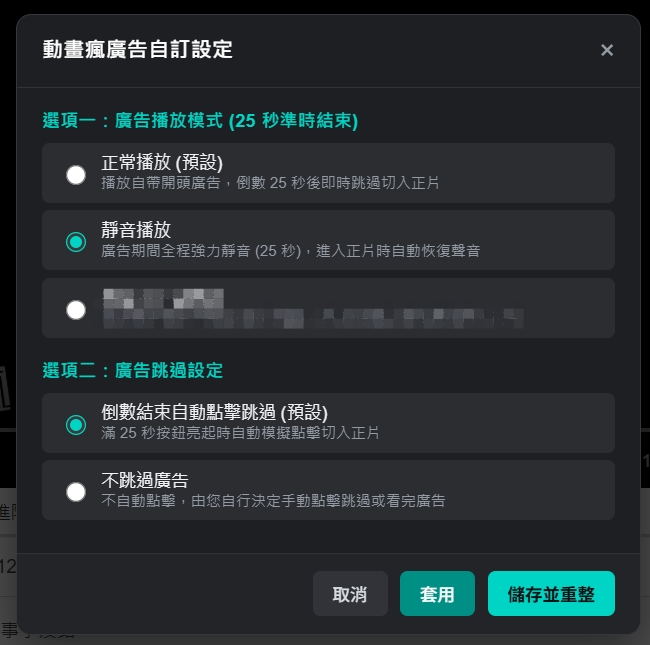
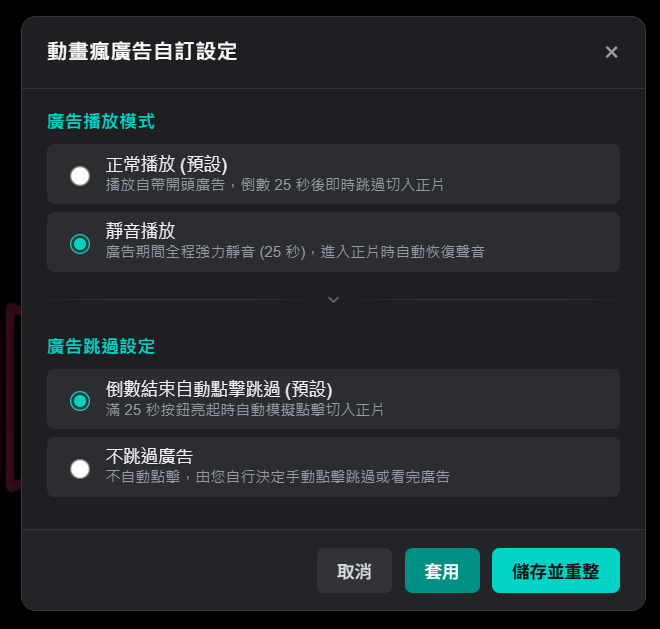
feat(v1.9): add interactive drawer & unlock animation for hidden feature
- Script (ani-gamer-ad-customizer.user.js): bump version to 1.9; add collapsible drawer with hover unlock (1.5s), rainbow neon border animation, and toast feedback
- Assets (images/settings_modal.png): update screenshot reflecting new drawer UI
- Documentation (README.md): bump version badge to 1.9 and update hidden feature description

diff --git a/ani-gamer-ad-customizer.user.js b/ani-gamer-ad-customizer.user.js
@@ -1,7 +1,7 @@
 // ==UserScript==
 // @name         巴哈動畫瘋廣告自訂助手
 // @namespace    https://github.com/pthuang01/ani-gamer-ad-customizer
-// @version      1.8
+// @version      1.9
 // @description  限制為巴哈自帶廣告 (跳過Google Ads)，25秒結束廣告、手動/自動結束廣告、正常/靜音播放廣告，及一個隱藏的實驗性功能
 // @author       DoReMi
 // @match        https://ani.gamer.com.tw/animeVideo.php?sn=*
@@ -199,25 +199,91 @@
             font-family: -apple-system, BlinkMacSystemFont, "Segoe UI", Roboto, "Helvetica Neue", Arial, sans-serif;
         `;
 
+        // 🌟 隱藏抽屜解鎖懸停秒數（修改此處數字，箭頭、分隔線、點擊有效觸發三者將完全自動連動）
+        const UNLOCK_HOVER_SECONDS = 1.5;
+
         const currentPlayMode = CONFIG.playMode;
         const currentSkipMode = CONFIG.skipMode;
+        const isExpanded = currentPlayMode === 'no-download';
 
         modalOverlay.innerHTML = `
-            <div style="
-                background: #1e1f22;
-                color: #f2f3f5;
-                width: 500px;
-                max-width: 92vw;
-                border-radius: 12px;
-                box-shadow: 0 12px 36px rgba(0,0,0,0.5);
-                border: 1px solid #35373c;
-                overflow: hidden;
-                animation: aniModalFadeIn 0.2s ease-out;
-            ">
+            <div class="ani-modal-wrapper" style="position: relative; border-radius: 14px; max-width: 92vw;">
+                <!-- 七彩霓虹流光層 (外光暈) -->
+                <div id="ani-rainbow-glow" class="ani-rainbow-layer ani-rainbow-blur">
+                    <div class="ani-rainbow-spinner"></div>
+                </div>
+
+                <!-- 設定視窗主體 -->
+                <div style="
+                    position: relative;
+                    z-index: 2;
+                    background: #1e1f22;
+                    color: #f2f3f5;
+                    width: 500px;
+                    max-width: 100%;
+                    border-radius: 12px;
+                    box-shadow: 0 12px 36px rgba(0,0,0,0.5);
+                    border: 1px solid #35373c;
+                    overflow: hidden;
+                    animation: aniModalFadeIn 0.2s ease-out;
+                ">
                 <style>
                     @keyframes aniModalFadeIn {
                         from { opacity: 0; transform: scale(0.95); }
                         to { opacity: 1; transform: scale(1); }
+                    }
+                    @keyframes aniToastRainbowIn {
+                        0% { opacity: 0; transform: translate(-50%, 15px) scale(0.95); }
+                        100% { opacity: 1; transform: translate(-50%, 0) scale(1); }
+                    }
+
+                    /* 圍繞視窗的七彩霓虹流光動畫 (普通流動速度) */
+                    @keyframes aniRainbowSpin {
+                        0% { transform: rotate(0deg); }
+                        100% { transform: rotate(360deg); }
+                    }
+                    /* 緩慢浮現 1 秒 ➔ 圍繞流動 2 秒 ➔ 柔和淡出 1 秒消失 (總長 4.0s) */
+                    @keyframes aniRainbowFade {
+                        0% { opacity: 0; }
+                        25% { opacity: 1; }
+                        75% { opacity: 1; }
+                        100% { opacity: 0; }
+                    }
+                    .ani-rainbow-layer {
+                        position: absolute;
+                        pointer-events: none;
+                        opacity: 0;
+                        overflow: hidden;
+                    }
+                    .ani-rainbow-blur {
+                        inset: -6px;
+                        border-radius: 18px;
+                        filter: blur(14px);
+                        z-index: 0;
+                    }
+                    .ani-rainbow-spinner {
+                        position: absolute;
+                        width: 300%;
+                        height: 300%;
+                        top: -100%;
+                        left: -100%;
+                        background: conic-gradient(
+                            from 0deg,
+                            #ff0055 0deg,
+                            #ff7700 45deg,
+                            #ffee00 90deg,
+                            #00ff88 135deg,
+                            #00ffff 180deg,
+                            #0077ff 225deg,
+                            #aa00ff 270deg,
+                            #ff00aa 315deg,
+                            #ff0055 360deg
+                        );
+                        animation: aniRainbowSpin 3.5s linear infinite;
+                        transform-origin: center center;
+                    }
+                    .ani-rainbow-active {
+                        animation: aniRainbowFade 4.0s ease-in-out forwards !important;
                     }
                     .ani-modal-section { margin-bottom: 20px; }
                     .ani-modal-title {
@@ -278,6 +344,108 @@
                     .ani-btn-apply:hover { background: #00a89c; }
                     .ani-btn-save-reload { background: #00d4c5; color: #111214; font-weight: 600; }
                     .ani-btn-save-reload:hover { background: #1affec; }
+
+                    /* 隱藏選項平滑抽屜容器 */
+                    .ani-hidden-container {
+                        max-height: 0;
+                        opacity: 0;
+                        overflow: hidden;
+                        transition: max-height 0.4s cubic-bezier(0.16, 1, 0.3, 1),
+                                    opacity 0.35s ease,
+                                    margin 0.4s cubic-bezier(0.16, 1, 0.3, 1);
+                        margin-bottom: 0;
+                    }
+                    .ani-hidden-container.expanded {
+                        max-height: 110px;
+                        opacity: 1;
+                        margin-bottom: 6px;
+                        overflow: visible;
+                    }
+
+                    /* 讓「完全不下載廣告」選項從左側往右 fade-in 2s 到定點 */
+                    @keyframes aniOptionSlideInLeft {
+                        0% {
+                            opacity: 0;
+                            transform: translateX(-32px);
+                        }
+                        100% {
+                            opacity: 1;
+                            transform: translateX(0);
+                        }
+                    }
+                    .ani-hidden-container.unlock-slide .ani-modal-option {
+                        animation: aniOptionSlideInLeft 2.0s cubic-bezier(0.16, 1, 0.3, 1) forwards;
+                    }
+
+                    /* 現代感極簡開合分隔線 */
+                    .ani-collapse-divider {
+                        display: flex;
+                        align-items: center;
+                        justify-content: center;
+                        padding: 6px 0 2px 0;
+                        cursor: default;
+                        user-select: none;
+                    }
+                    .ani-collapse-divider .ani-divider-line {
+                        flex: 1;
+                        height: 1px;
+                        position: relative;
+                        background: linear-gradient(90deg, rgba(53, 55, 60, 0.2), #35373c 30%, #35373c 70%, rgba(53, 55, 60, 0.2));
+                    }
+                    .ani-collapse-divider .ani-divider-line::after {
+                        content: '';
+                        position: absolute;
+                        top: 0;
+                        left: 0;
+                        width: 100%;
+                        height: 100%;
+                        background: linear-gradient(90deg, rgba(0, 212, 197, 0.1), #00d4c5 30%, #00d4c5 70%, rgba(0, 212, 197, 0.1));
+                        box-shadow: 0 0 8px rgba(0, 212, 197, 0.5);
+                        opacity: 0;
+                        transition: opacity 0.4s ease 0s;
+                        pointer-events: none;
+                    }
+                    .ani-collapse-divider .ani-divider-icon {
+                        display: flex;
+                        align-items: center;
+                        justify-content: center;
+                        width: 24px;
+                        height: 20px;
+                        margin: 0 8px;
+                        color: #5a5e67;
+                        cursor: default;
+                        transition: color 0.4s ease 0s, filter 0.4s ease 0s;
+                    }
+                    .ani-collapse-divider .ani-divider-icon svg {
+                        transition: transform 0.3s cubic-bezier(0.4, 0, 0.2, 1);
+                    }
+
+                    /* 閉合狀態：滑鼠懸浮指定秒數後觸發青色霓虹微光特效，分隔線與箭頭嚴格同步延遲 */
+                    .ani-collapse-divider:not(.expanded):hover .ani-divider-line::after {
+                        opacity: 1;
+                        transition: opacity 0.4s ease ${UNLOCK_HOVER_SECONDS}s;
+                    }
+                    .ani-collapse-divider:not(.expanded):hover .ani-divider-icon {
+                        color: #00d4c5;
+                        filter: drop-shadow(0 0 6px rgba(0, 212, 197, 0.7));
+                        transition: color 0.4s ease ${UNLOCK_HOVER_SECONDS}s, filter 0.4s ease ${UNLOCK_HOVER_SECONDS}s;
+                    }
+
+                    /* 展開後狀態：箭頭翻轉 180 度 */
+                    .ani-collapse-divider.expanded .ani-divider-icon svg {
+                        transform: rotate(180deg);
+                    }
+
+                    /* 展開後狀態：Hover 不發生任何特效 */
+                    .ani-collapse-divider.expanded:hover .ani-divider-line::after {
+                        opacity: 0;
+                        transition: none;
+                    }
+                    .ani-collapse-divider.expanded:hover .ani-divider-icon {
+                        color: #5a5e67;
+                        filter: none;
+                        transition: none;
+                    }
                 </style>
 
                 <!-- Header -->
@@ -305,12 +473,25 @@
                                 <span class="ani-modal-desc">廣告期間全程強力靜音 (25 秒)，進入正片時自動恢復聲音</span>
                             </label>
                         </div>
-                        <div class="ani-modal-option" data-radio-id="playMode_no_download">
-                            <input type="radio" id="playMode_no_download" name="ani_play_mode" value="no-download" ${currentPlayMode === 'no-download' ? 'checked' : ''}>
-                            <label for="playMode_no_download">
-                                完全不下載廣告
-                                <span class="ani-modal-desc">阻擋廣告切片下載 (0 MB 流量)，25 秒虛擬計時後直接切入正片</span>
-                            </label>
+                        <!-- 隱藏抽屜：完全不下載廣告 -->
+                        <div id="ani-hidden-container" class="ani-hidden-container ${isExpanded ? 'expanded' : ''}">
+                            <div class="ani-modal-option" data-radio-id="playMode_no_download">
+                                <input type="radio" id="playMode_no_download" name="ani_play_mode" value="no-download" ${currentPlayMode === 'no-download' ? 'checked' : ''}>
+                                <label for="playMode_no_download">
+                                    完全不下載廣告
+                                    <span class="ani-modal-desc">阻擋廣告切片下載 (0 MB 流量)，25 秒虛擬計時後直接切入正片</span>
+                                </label>
+                            </div>
+                        </div>
+                        <!-- 現代感開合分隔線 -->
+                        <div id="ani-collapse-divider" class="ani-collapse-divider ${isExpanded ? 'expanded' : ''}">
+                            <div class="ani-divider-line"></div>
+                            <div class="ani-divider-icon">
+                                <svg width="12" height="12" viewBox="0 0 12 12" fill="none" xmlns="http://www.w3.org/2000/svg">
+                                    <path d="M2.5 4.5L6 8L9.5 4.5" stroke="currentColor" stroke-width="1.6" stroke-linecap="round" stroke-linejoin="round"/>
+                                </svg>
+                            </div>
+                            <div class="ani-divider-line"></div>
                         </div>
                     </div>
 
@@ -341,9 +522,68 @@
                     <button class="ani-btn ani-btn-save-reload" id="ani-btn-save-reload">儲存並重整</button>
                 </div>
             </div>
+        </div>
         `;
 
         targetDocument.body.appendChild(modalOverlay);
+
+        // 開合分隔線切換邏輯 (閉合狀態下：在發亮前按它不會展開)
+        const collapseDivider = modalOverlay.querySelector('#ani-collapse-divider');
+        const hiddenContainer = modalOverlay.querySelector('#ani-hidden-container');
+
+        let hoverTimer = null;
+        let isGlowActive = false;
+
+        collapseDivider.addEventListener('mouseenter', () => {
+            if (!collapseDivider.classList.contains('expanded')) {
+                clearTimeout(hoverTimer);
+                hoverTimer = setTimeout(() => {
+                    isGlowActive = true;
+                }, UNLOCK_HOVER_SECONDS * 1000);
+            }
+        });
+
+        collapseDivider.addEventListener('mouseleave', () => {
+            clearTimeout(hoverTimer);
+            hoverTimer = null;
+            isGlowActive = false;
+        });
+
+        collapseDivider.addEventListener('click', () => {
+            const isCurrentlyExpanded = hiddenContainer.classList.contains('expanded');
+            if (!isCurrentlyExpanded) {
+                // 閉合狀態：在發亮前點擊不會展開
+                if (!isGlowActive) return;
+
+                // 🌟 1. 觸發設定視窗邊框的七彩霓虹流光特效（緩慢浮現 1 秒 ➔ 流動 1 秒 ➔ 淡出 1 秒）
+                const rainbowGlow = modalOverlay.querySelector('#ani-rainbow-glow');
+                if (rainbowGlow) {
+                    rainbowGlow.classList.remove('ani-rainbow-active');
+                    void rainbowGlow.offsetWidth; // 強制重繪
+                    rainbowGlow.classList.add('ani-rainbow-active');
+                }
+
+                // 🌟 2. 發生霓虹特效的同時彈出專屬 Toast (青色主視覺，同步 4 秒)
+                showToast('已解鎖實驗性隱藏功能！', 4000);
+
+                // 🌟 3. 「完全不下載廣告」選項從左側往右 fade-in 2s 到定點展開
+                hiddenContainer.classList.remove('unlock-slide');
+                void hiddenContainer.offsetWidth; // 強制重繪觸發動畫
+                hiddenContainer.classList.add('unlock-slide');
+                hiddenContainer.classList.add('expanded');
+                collapseDivider.classList.add('expanded');
+
+                isGlowActive = false;
+                clearTimeout(hoverTimer);
+            } else {
+                // 展開狀態：可隨時點擊收合
+                hiddenContainer.classList.remove('expanded');
+                hiddenContainer.classList.remove('unlock-slide');
+                collapseDivider.classList.remove('expanded');
+                isGlowActive = false;
+                clearTimeout(hoverTimer);
+            }
+        });
 
         // 點擊選項整列皆可選取
         modalOverlay.querySelectorAll('.ani-modal-option').forEach(opt => {
@@ -384,7 +624,10 @@
         radioMuted.addEventListener('change', updateSkipOptionState);
         updateSkipOptionState();
 
-        const closeModal = () => modalOverlay.remove();
+        const closeModal = () => {
+            clearTimeout(hoverTimer);
+            modalOverlay.remove();
+        };
         targetDocument.getElementById('ani-btn-close').onclick = closeModal;
         modalOverlay.onclick = (e) => { if (e.target === modalOverlay) closeModal(); };
         targetDocument.getElementById('ani-btn-cancel').onclick = closeModal;
@@ -414,7 +657,7 @@
         };
     }
 
-    function showToast(msg) {
+    function showToast(msg, durationMs = 2500) {
         const toast = targetDocument.createElement('div');
         toast.style.cssText = `
             position: fixed;
@@ -423,17 +666,27 @@
             transform: translateX(-50%);
             background: #00d4c5;
             color: #111214;
-            padding: 10px 22px;
+            padding: 11px 24px;
             border-radius: 8px;
             font-size: 14px;
             font-weight: 600;
             z-index: 1000000;
-            box-shadow: 0 4px 16px rgba(0,0,0,0.4);
+            box-shadow: 0 4px 18px rgba(0, 212, 197, 0.45);
             pointer-events: none;
+            letter-spacing: 0.5px;
+            animation: aniToastRainbowIn 0.3s cubic-bezier(0.16, 1, 0.3, 1);
+            transition: opacity 0.8s ease, transform 0.8s ease;
         `;
         toast.textContent = msg;
         targetDocument.body.appendChild(toast);
-        setTimeout(() => toast.remove(), 2500);
+
+        // 在最後 0.8 秒隨同七彩流光柔和淡出
+        const fadeDelay = Math.max(0, durationMs - 800);
+        setTimeout(() => {
+            toast.style.opacity = '0';
+            toast.style.transform = 'translate(-50%, 8px)';
+            setTimeout(() => toast.remove(), 800);
+        }, fadeDelay);
     }
 
     GM_registerMenuCommand('⚙ 動畫瘋廣告設定視窗 (Alt + A)', () => {

diff --git a/README.md b/README.md
@@ -3,7 +3,7 @@
 # 🎬動畫瘋廣告自訂助手
 
 [![License: MIT](https://img.shields.io/badge/License-MIT-blue)](#-免責聲明-disclaimer)
-[![Version](https://img.shields.io/badge/Version-1.8-green)](https://github.com/pthuang01/ani-gamer-ad-customizer)
+[![Version](https://img.shields.io/badge/Version-1.9-green)](https://github.com/pthuang01/ani-gamer-ad-customizer)
 [![Greasy Fork](https://img.shields.io/badge/Greasy%20Fork-安裝-960000)](https://update.greasyfork.org/scripts/595865/%E5%B7%B4%E5%93%88%E5%A7%86%E7%89%B9%E5%8B%95%E7%95%AB%E7%98%8B%E5%BB%A3%E5%91%8A%E8%87%AA%E8%A8%82%E5%8A%A9%E6%89%8B.user.js)
 [![Platform](https://img.shields.io/badge/Platform-Tampermonkey%20%7C%20Violentmonkey-orange)](#-安裝教學)
 
@@ -93,7 +93,7 @@
 #### 廣告播放模式
 - **正常播放（預設）**：正常播放官方自帶開頭廣告，倒數 25 秒後即時跳過切入正片
 - **靜音播放**：廣告期間全程自動強制靜音，進入正片時自動恢復聲音
-- **隱藏功能**：進階實驗性功能，可供探索與切換
+- **隱藏功能**：進階實驗性功能，有興趣的話就找找看吧！
 
 #### 廣告跳過設定
 - **倒數結束自動點擊跳過（預設）**：滿 25 秒跳過按鈕亮起時，自動模擬點擊切入正片，完全無須手動操作
